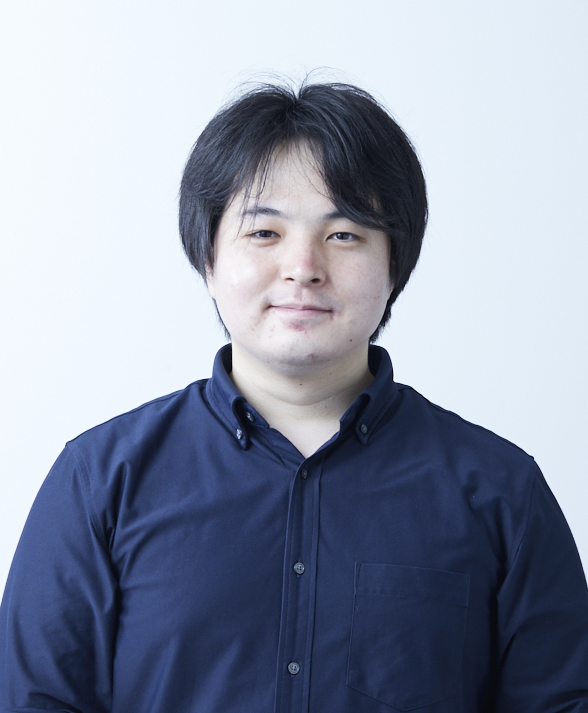
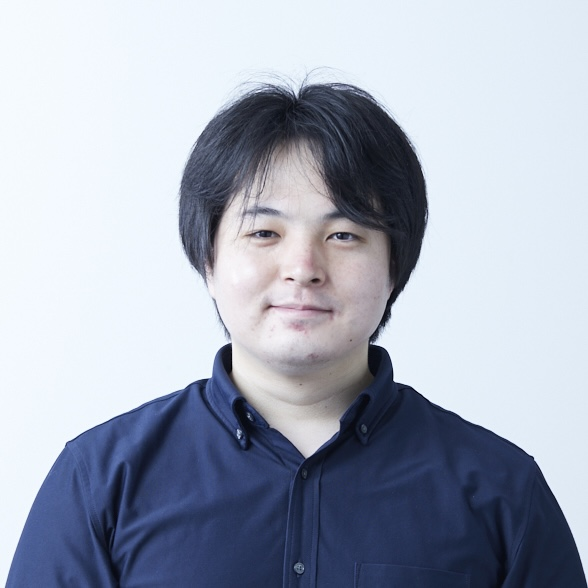
コミット漏れ

diff --git a/app/[locale]/features/Events.tsx b/app/[locale]/features/Events.tsx
@@ -155,7 +155,7 @@ export default function Events() {
           <h3 className="text-xl md:text-2xl font-bold">
             {t("events.sectionTitle")}
           </h3>
-          <p className="leading-relaxed max-w-3xl">{t("events.description")}</p>
+          <p className="leading-relaxed">{t("events.description")}</p>
         </div>
 
         {/* セッション一覧 */}
@@ -163,7 +163,7 @@ export default function Events() {
           {sessions.map((session, index) => (
             <div key={index} className="flex flex-col gap-4">
               {/* 日時 */}
-              <div className="flex items-center justify-between border-b border-black/10 pb-2">
+              <div className="flex items-center justify-between border-b border-dark-blue-primary/10 pb-2">
                 <div className="flex items-baseline gap-4">
                   <span className="text-xl font-en font-medium">
                     {session.date}
@@ -175,7 +175,7 @@ export default function Events() {
                     href={createGoogleCalendarUrl(session)}
                     target="_blank"
                     rel="noopener noreferrer"
-                    className="text-xs border border-black/10 px-2 py-1 rounded hover:bg-black hover:text-white transition-colors flex items-center gap-1"
+                    className="text-xs border border-gray-primary hover:border-dark-blue-primary px-2 py-1 rounded hover:bg-dark-blue-primary hover:text-foreground transition-colors flex items-center gap-1 duration-300"
                     title="Googleカレンダーに追加"
                   >
                     <span>＋ Calendar</span>
@@ -200,7 +200,7 @@ export default function Events() {
                 {session.speakers.map((speaker, sIndex) => (
                   <li key={sIndex} className="flex items-center gap-3 text-sm">
                     {/* 顔写真 */}
-                    <div className="h-10 w-10 shrink-0 overflow-hidden rounded-full bg-black/10">
+                    <div className="h-10 w-10 shrink-0 overflow-hidden rounded-full bg-dark-blue-primary/10">
                       {speaker.imageUrl ? (
                         <Image
                           src={speaker.imageUrl}
@@ -247,7 +247,7 @@ export default function Events() {
                         </span>
                       )}
 
-                      <div className="flex flex-wrap items-center gap-x-2 text-xs text-black/60">
+                      <div className="flex flex-wrap items-center gap-x-2 text-xs">
                         {speaker.profile && (
                           <span className="whitespace-nowrap">
                             {speaker.profile}

diff --git a/app/[locale]/features/SNSEmbedding.tsx b/app/[locale]/features/SNSEmbedding.tsx
@@ -8,11 +8,21 @@ import Link from "next/link";
 import xLogo from "../../../public/images/logo/x-logo-white.svg";
 import instagramLogo from "../../../public/images/logo/Instagram-logo-white.svg";
 import Guruguru from "./GuruguruVideo";
+import { useState } from "react";
 
 const basePath = process.env.NEXT_PUBLIC_BASE_PATH || "";
 const guruguru01Webm = `${basePath}/images/top/guruguru_01.webm`;
+const guruguru02Webm = `${basePath}/images/top/guruguru_02.webm`;
+const guruguru03Webm = `${basePath}/images/top/guruguru_03.webm`;
+const guruguru04Webm = `${basePath}/images/top/guruguru_04.webm`;
+const guruguru05Webm = `${basePath}/images/top/guruguru_05.webm`;
+
 
 export default function SNSEmbedding() {
+  const [currentGuruguru, setCurrentGuruguru] = useState(0);
+  const guruguruWebm = [guruguru01Webm, guruguru02Webm, guruguru03Webm, guruguru04Webm, guruguru05Webm];
+
+
   const { t } = useTranslation();
   return (
     <Section title={"SNS"}>
@@ -28,11 +38,15 @@ export default function SNSEmbedding() {
               <h3 className="text-xl text-center md:text-2xl font-bold z-10">
                 {t("sns.sectionTitle")}
               </h3>
+              <button className="cursor-pointer w-36 md:w-60 aspect-square absolute top-1/2 left-1/2 md:-translate-x-1/4 lg:translate-x-0 -translate-y-5/8" onClick={() => {
+                setCurrentGuruguru((currentGuruguru + 1) % guruguruWebm.length);
+              }}>
               <Guruguru
-                    src={guruguru01Webm}
-                    className="w-36 md:w-60 aspect-square absolute top-1/2 left-1/2 md:-translate-x-1/4 lg:translate-x-0 -translate-y-5/8"
+                    src={guruguruWebm[currentGuruguru]}
+                    className=""
                     startDelayMs={1000}
               />
+              </button>
             </div>
             <p className="leading-relaxed text-sm md:text-base text-center">
               {t("sns.description")}

diff --git a/app/[locale]/features/WebExhibition.tsx b/app/[locale]/features/WebExhibition.tsx
@@ -3,22 +3,33 @@
 import Section from "../components/Section";
 import Guruguru from "./GuruguruVideo";
 import { Trans } from "react-i18next";
+import { useState } from "react";
 
 const basePath = process.env.NEXT_PUBLIC_BASE_PATH || "";
 const guruguru01Webm = `${basePath}/images/top/guruguru_01.webm`;
+const guruguru02Webm = `${basePath}/images/top/guruguru_02.webm`;
+const guruguru03Webm = `${basePath}/images/top/guruguru_03.webm`;
+const guruguru04Webm = `${basePath}/images/top/guruguru_04.webm`;
+const guruguru05Webm = `${basePath}/images/top/guruguru_05.webm`;
+const guruguruWebm = [guruguru01Webm, guruguru02Webm, guruguru03Webm, guruguru04Webm, guruguru05Webm];
 
 export default function WebExhibition() {
+  const [currentGuruguru, setCurrentGuruguru] = useState(0);
   return (
     <Section title={"Web Exhibition"}>
       <div className="grid h-full gap-20 py-50 items-center justify-center">
 
         <div className="relative">
           <h1 className="text-4xl md:text-6xl font-semibold text-center">Coming Soon</h1>
-          <Guruguru
-                src={guruguru01Webm}
-                className="w-40 md:w-72 aspect-square absolute top-1/2 left-1/2 md:translate-x-1/4 -translate-y-5/8"
+          <button className="w-40 md:w-72 aspect-square cursor-pointer absolute top-1/2 left-1/2 md:translate-x-1/4 -translate-y-5/8" onClick={() => {
+            setCurrentGuruguru((currentGuruguru + 1) % guruguruWebm.length);
+          }}>
+            <Guruguru
+                src={guruguruWebm[currentGuruguru]}
                 startDelayMs={1000}
-          />
+            />
+          </button>
+          
         </div>
 
         <div className="text-center text-xs md:text-sm leading-6 md:leading-8">

diff --git a/app/[locale]/features/GuruguruVideo.tsx b/app/[locale]/features/GuruguruVideo.tsx
@@ -64,7 +64,7 @@ export default function Guruguru({
       clearTimeout(resetTimer);
       clearTimeout(startTimer);
     };
-  }, [pauseMs, fadeMs, startDelayMs]);
+  }, [src, pauseMs, fadeMs, startDelayMs]);
 
   return (
     <video
